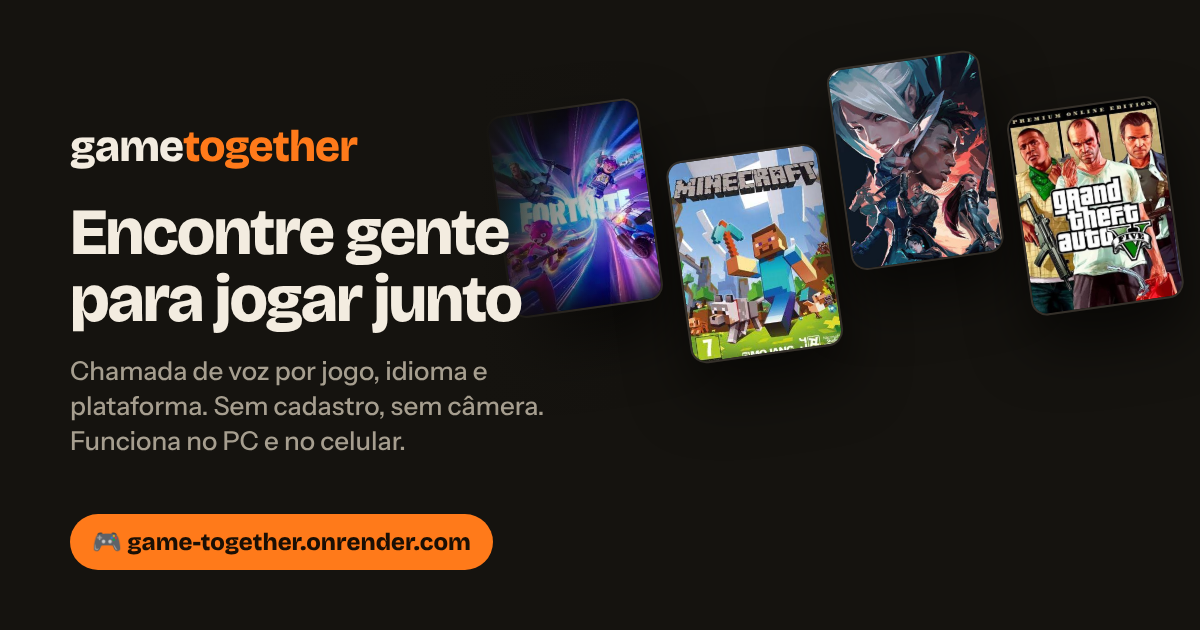
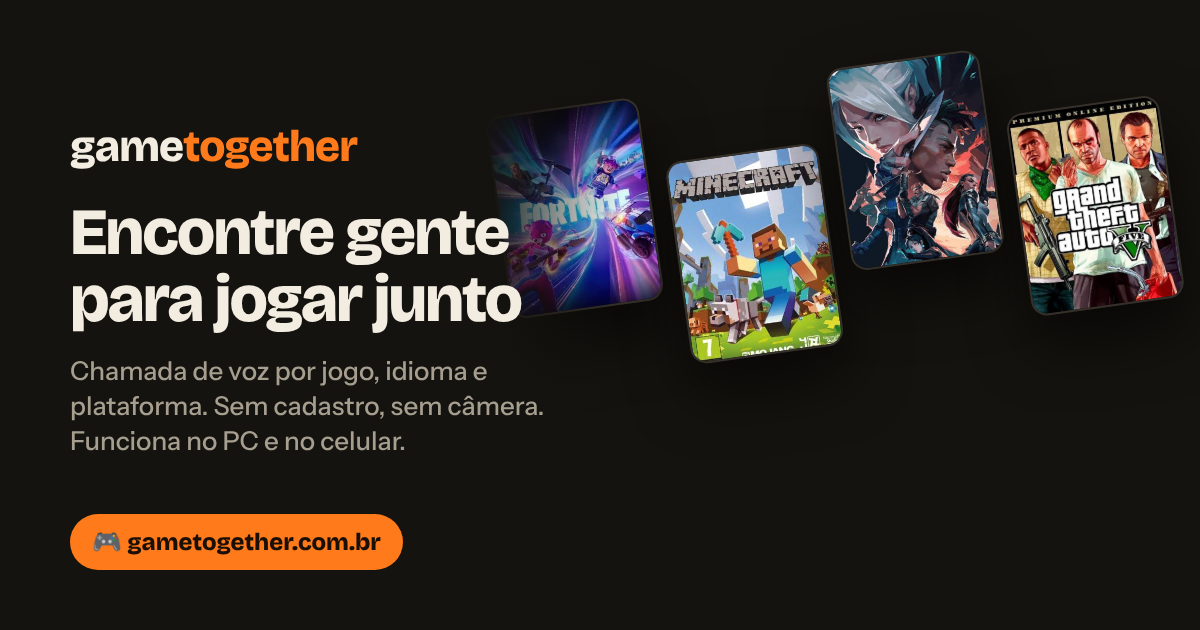
Switch the official address to gametogether.com.br
- Canonical, share tags, sitemap, robots, README and share image point
  to https://gametogether.com.br.
- With SITE_URL set, requests to any other host (such as onrender.com)
  redirect permanently to the official address. Version 2.7.0.

Claude-Session: https://claude.ai/code/session_01HMSbQ66kGdSMkE2tAip2hT

Changed region(s): [[0.1542, 0.8143, 0.4317, 0.9048]]

diff --git a/public/index.html b/public/index.html
@@ -6,13 +6,13 @@
   <meta name="theme-color" content="#15130f">
   <title>Game Together: encontre gente para jogar junto por chamada de voz</title>
   <meta name="description" content="Site grátis de chamada de voz para achar gente para jogar: escolha o jogo (Fortnite, Roblox, Minecraft, ARK, Rocket League, GTA V e mais), o idioma e a plataforma e clique em Matchmake. Sem cadastro, sem câmera. Funciona no PC e no celular.">
-  <link rel="canonical" href="https://game-together.onrender.com/">
+  <link rel="canonical" href="https://gametogether.com.br/">
   <meta property="og:type" content="website">
   <meta property="og:site_name" content="Game Together">
   <meta property="og:title" content="Game Together: encontre gente para jogar junto">
   <meta property="og:description" content="Chamada de voz por jogo, idioma e plataforma. Sem cadastro, sem câmera. Funciona no PC e no celular.">
-  <meta property="og:url" content="https://game-together.onrender.com/">
-  <meta property="og:image" content="https://game-together.onrender.com/og.png">
+  <meta property="og:url" content="https://gametogether.com.br/">
+  <meta property="og:image" content="https://gametogether.com.br/og.png">
   <meta property="og:image:width" content="1200">
   <meta property="og:image:height" content="630">
   <meta property="og:locale" content="pt_BR">
@@ -20,13 +20,13 @@
   <meta name="twitter:card" content="summary_large_image">
   <meta name="twitter:title" content="Game Together: encontre gente para jogar junto">
   <meta name="twitter:description" content="Chamada de voz por jogo, idioma e plataforma. Sem cadastro, sem câmera. Funciona no PC e no celular.">
-  <meta name="twitter:image" content="https://game-together.onrender.com/og.png">
+  <meta name="twitter:image" content="https://gametogether.com.br/og.png">
   <script type="application/ld+json">
   {
     "@context": "https://schema.org",
     "@type": "WebApplication",
     "name": "Game Together",
-    "url": "https://game-together.onrender.com/",
+    "url": "https://gametogether.com.br/",
     "description": "Chamada de voz grátis para encontrar gente para jogar junto. Escolha o jogo, o idioma e a plataforma e clique em Matchmake.",
     "applicationCategory": "GameApplication",
     "operatingSystem": "Any",

diff --git a/server.js b/server.js
@@ -71,6 +71,20 @@ function visitSummary() {
     byDay: Object.fromEntries(Object.entries(visits.days).sort().map(([k, v]) => [k, { visits: v.visits, visitors: v.visitors.length }])),
   };
 }
+// Endereço oficial: com SITE_URL definido (ex.: https://gametogether.com.br), qualquer outro
+// endereço (como o onrender.com) redireciona para ele, para o Google contar um site só.
+const SITE_URL = (process.env.SITE_URL || '').replace(/\/$/, '');
+if (SITE_URL) {
+  const siteHost = new URL(SITE_URL).host;
+  app.use((req, res, next) => {
+    const host = req.headers.host || '';
+    if (host && host !== siteHost && !host.startsWith('localhost') && !host.startsWith('127.')) {
+      return res.redirect(301, SITE_URL + req.originalUrl);
+    }
+    next();
+  });
+}
+
 app.get(['/', '/index.html'], (req, _res, next) => {
   // só aberturas de verdade da página (não as buscas internas do service worker)
   const mode = req.headers['sec-fetch-mode'];

diff --git a/README.md b/README.md
@@ -6,7 +6,7 @@ plataforma, clica em **Matchmake** e cai numa chamada com quem escolheu a
 mesma coisa. Funciona no PC, no Android e no iPhone, direto no navegador,
 e dá para instalar como app.
 
-🔗 **Link do site:** https://game-together.onrender.com
+🔗 **Link do site:** https://gametogether.com.br
 
 🇺🇸 [English version below](#game-together-english)
 
@@ -197,7 +197,7 @@ nova aqui no GitHub.
 
 ## Quantas pessoas visitaram
 
-O endereço https://game-together.onrender.com/api/stats mostra, em texto
+O endereço https://gametogether.com.br/api/stats mostra, em texto
 simples, quantas pessoas estão online agora, quantas estão em chamada,
 quantas contas existem e as visitas: de hoje (`visitsToday`, com
 `visitorsToday` sendo pessoas diferentes), dos últimos 7 dias e desde o
@@ -238,7 +238,7 @@ hit **Matchmake** and you land on a call with people who picked the same.
 Works on PC, Android and iPhone, right in the browser, and can be installed
 as an app.
 
-🔗 **Site link:** https://game-together.onrender.com
+🔗 **Site link:** https://gametogether.com.br
 
 ## Share it and suggest games
 
@@ -428,7 +428,7 @@ app is outdated" with a button to download the new version here on GitHub.
 
 ## How many people visited
 
-The address https://game-together.onrender.com/api/stats shows, in plain
+The address https://gametogether.com.br/api/stats shows, in plain
 text, how many people are online right now, how many are on a call, how
 many accounts exist and the visits: today (`visitsToday`, with
 `visitorsToday` being distinct people), the last 7 days and since the start
